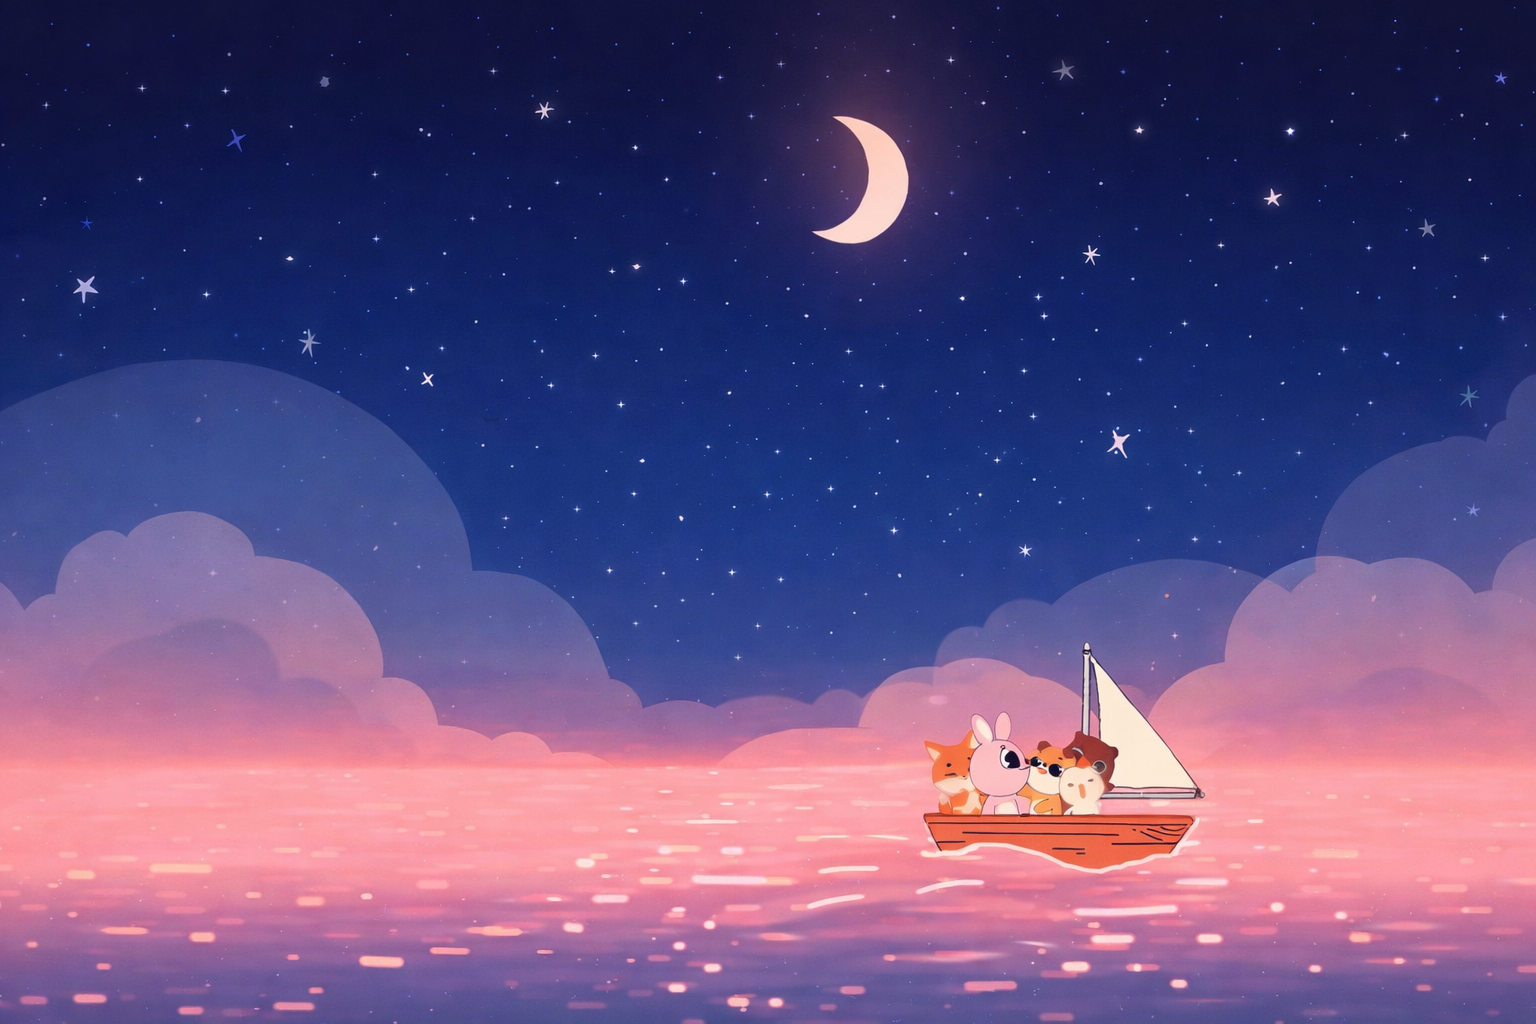
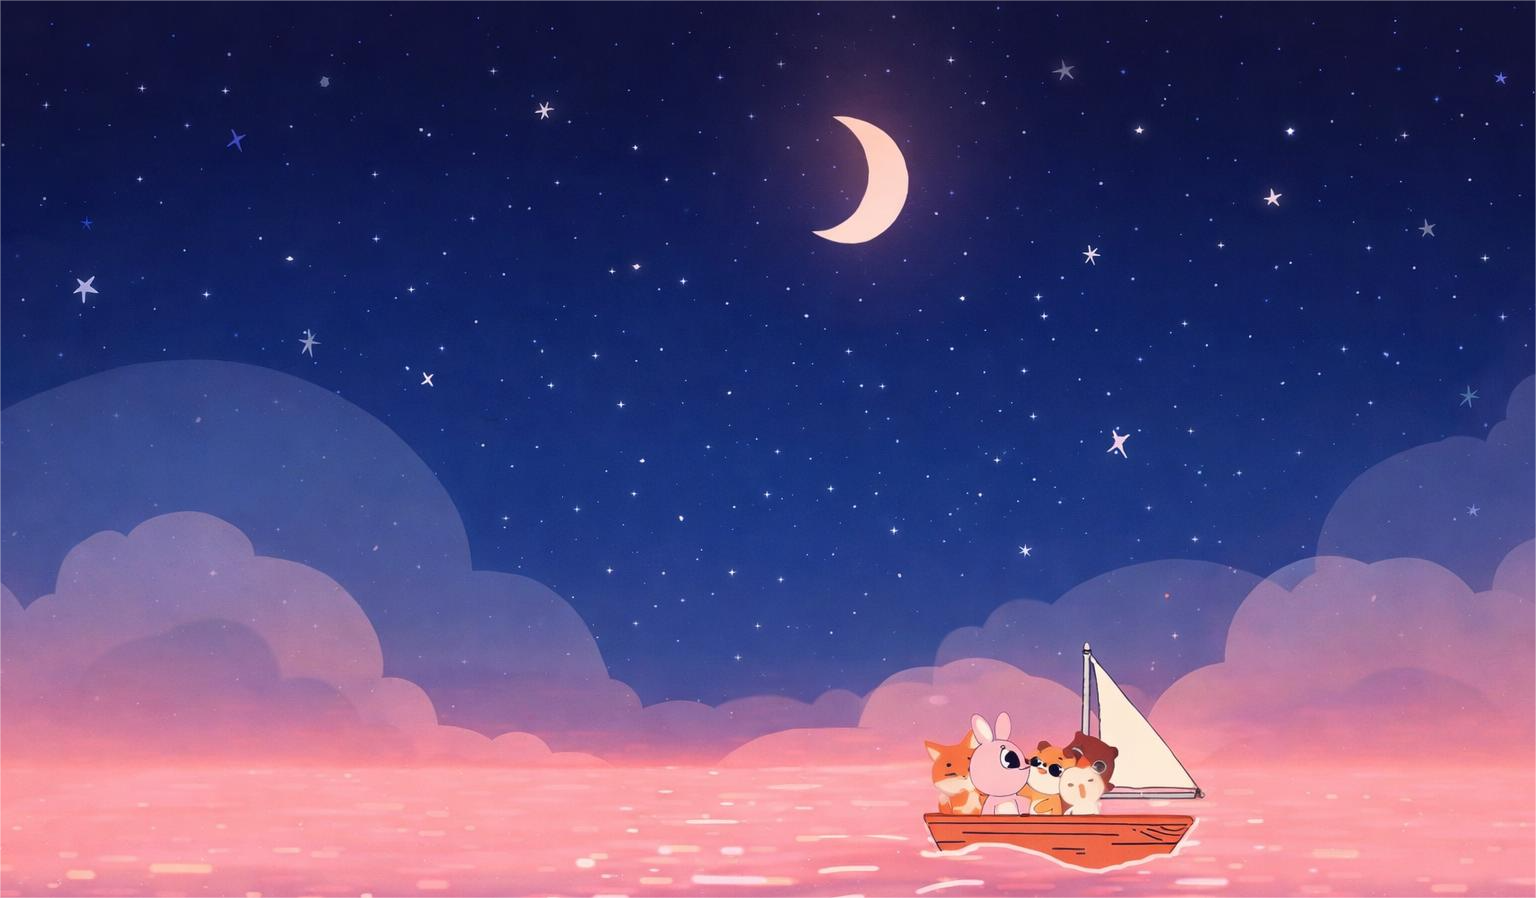
fixed fix banget bismillah

diff --git a/src/App.css b/src/App.css
@@ -233,7 +233,7 @@ nav.navbar .navbar-toggler[aria-expanded="true"] .navbar-toggler-icon {
   margin-top: 0;
   padding: 180px 0 80px 0;
   background-image: url('./assets/img/background.png');
-  background-position: top center;
+  background-position: bottom center;
   background-size: cover;
   background-repeat: no-repeat;
   width: 100%;
